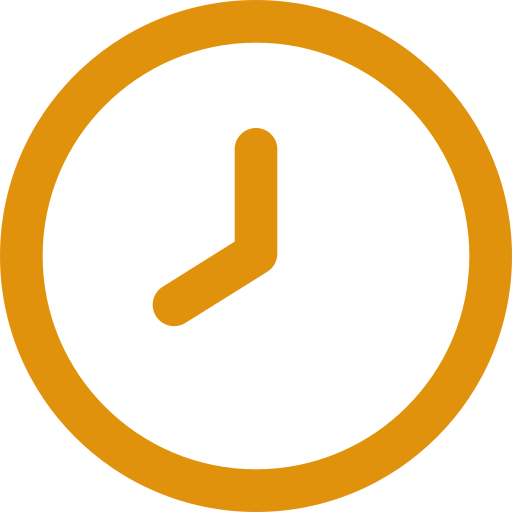
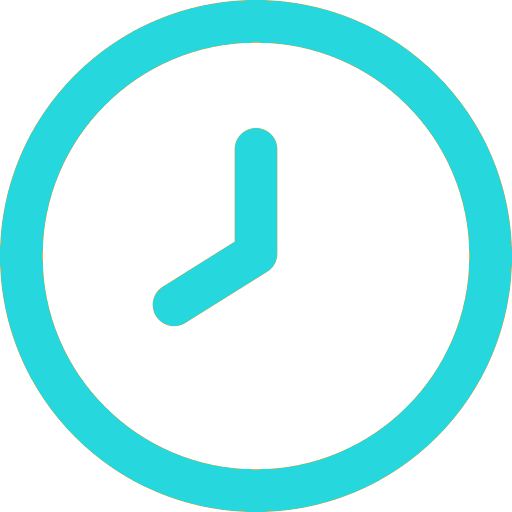
General UI Changes (Colour Formatting)

Changed region(s): [[0.0, 0.0, 1.0, 1.0], [0.2812, 0.25, 0.5625, 0.6562]]

diff --git a/lib/screens/signup_page.dart b/lib/screens/signup_page.dart
@@ -85,10 +85,11 @@ class SignUpScreenState extends State<SignupScreen> {
                 child: Container(),
               ),
               //svg image
-              SvgPicture.asset(
-                'assets/login_logo_emptybackg.svg',
+              Image.asset(
+                'assets/original_logo.png',
                 height: 140,
               ),
+
               const SizedBox(height: 10),
 
               //textfield for username
@@ -207,14 +208,14 @@ class SignUpScreenState extends State<SignupScreen> {
       Get.snackbar("Error", "Please enter a valid username",
           snackPosition: SnackPosition.TOP,
           backgroundColor: Colors.black.withOpacity(1),
-          colorText: Colors.orangeAccent);
+          colorText: orange);
       print("Please enter a valid username.");
       return false;
     } else if (controller.text_pass.text.trim() == "") {
       Get.snackbar("Error", "Password field is empty",
           snackPosition: SnackPosition.TOP,
           backgroundColor: Colors.black.withOpacity(1),
-          colorText: Colors.orange);
+          colorText: orange);
       print("Password is empty!");
       return false;
     } else if (controller.text_pass.text.trim() !=
@@ -223,14 +224,14 @@ class SignUpScreenState extends State<SignupScreen> {
           "Password and Verify Password fields does not have the same value",
           snackPosition: SnackPosition.TOP,
           backgroundColor: Colors.black.withOpacity(1),
-          colorText: Colors.orange);
+          colorText: orange);
       print("Password is not verified!");
       return false;
     } else if (controller.text_email.text.isEmpty) {
       Get.snackbar("Error", "Please enter a valid email",
           snackPosition: SnackPosition.TOP,
           backgroundColor: Colors.black.withOpacity(1),
-          colorText: Colors.orangeAccent);
+          colorText: orange);
       print("Please enter a valid email.");
       return false;
     } else if (controller.text_pass.text.trim().length < 8) {
@@ -238,7 +239,7 @@ class SignUpScreenState extends State<SignupScreen> {
           "Error", "Please enter at least 8 characters for the password",
           snackPosition: SnackPosition.TOP,
           backgroundColor: Colors.black.withOpacity(1),
-          colorText: Colors.orangeAccent);
+          colorText: orange);
       print("short password");
       return false;
     }

diff --git a/lib/widgets/custom_option.dart b/lib/widgets/custom_option.dart
@@ -47,13 +47,13 @@ class _CustomTernaryOptionState extends State<CustomTernaryOption> {
                       style: Theme.of(context).textTheme.bodyMedium!.copyWith(
                             fontWeight: FontWeight.w600,
                             color: selectedOption == 0
-                                ? Colors.orange
+                                ? orange
                                 : Colors.white,
                           ),
                     ),
                     Container(
                       height: selectedOption == 0 ? 3 : 1,
-                      color: selectedOption == 0 ? Colors.orange : Colors.white,
+                      color: selectedOption == 0 ? orange : Colors.white,
                     ),
                   ],
                 ),
@@ -74,13 +74,13 @@ class _CustomTernaryOptionState extends State<CustomTernaryOption> {
                       style: Theme.of(context).textTheme.bodyMedium!.copyWith(
                             fontWeight: FontWeight.w600,
                             color: selectedOption == 1
-                                ? Colors.orange
+                                ? orange
                                 : Colors.white,
                           ),
                     ),
                     Container(
                       height: selectedOption == 1 ? 3 : 1,
-                      color: selectedOption == 1 ? Colors.orange : Colors.white,
+                      color: selectedOption == 1 ? orange : Colors.white,
                     ),
                   ],
                 ),
@@ -101,13 +101,13 @@ class _CustomTernaryOptionState extends State<CustomTernaryOption> {
                       style: Theme.of(context).textTheme.bodyMedium!.copyWith(
                             fontWeight: FontWeight.w600,
                             color: selectedOption == 2
-                                ? Colors.orange
+                                ? orange
                                 : Colors.white,
                           ),
                     ),
                     Container(
                       height: selectedOption == 2 ? 3 : 1,
-                      color: selectedOption == 2 ? Colors.orange : Colors.white,
+                      color: selectedOption == 2 ? orange : Colors.white,
                     ),
                   ],
                 ),

diff --git a/lib/screens/editprofile_page.dart b/lib/screens/editprofile_page.dart
@@ -5,6 +5,7 @@ import 'package:sportshive/data/controllers/profile_controller.dart';
 import 'package:sportshive/data/repositories/user_repo.dart';
 import 'package:sportshive/responsive/mobile_screen_layout.dart';
 import 'package:sportshive/screens/welcome_screen.dart';
+import 'package:sportshive/utils/colors.dart';
 import 'package:sportshive/widgets/text_field_input.dart';
 import 'package:sportshive/screens/profile_pic.dart';
 import 'package:country_picker/country_picker.dart';
@@ -37,7 +38,7 @@ class _UserProfileScreenState extends State<UserProfileScreen> {
     return Scaffold(
       appBar: AppBar(
         title: Text('Tell us more about yourself'),
-        backgroundColor: Colors.orange,
+        backgroundColor: orange,
         iconTheme: IconThemeData(color: Colors.white),
         leading: IconButton(
           icon: Icon(Icons.arrow_back),
@@ -181,7 +182,7 @@ class _UserProfileScreenState extends State<UserProfileScreen> {
       floatingActionButton: FloatingActionButton(
         onPressed: _onDonePressed,
         child: Icon(Icons.navigate_next),
-        backgroundColor: Colors.orange,
+        backgroundColor: orange,
       ),
       floatingActionButtonLocation: FloatingActionButtonLocation.endFloat,
     );

diff --git a/lib/screens/profile_screen.dart b/lib/screens/profile_screen.dart
@@ -104,7 +104,7 @@ class ProfileScreenState extends State<ProfileScreen> {
                                     onTap: () {},  //option to change the image
                                     child: CircleAvatar(
                                       radius: 15,
-                                      backgroundColor: Colors.orangeAccent,
+                                      backgroundColor: orange,
                                       child: Icon(
                                         Icons.edit,
                                         size: 20,
@@ -187,7 +187,7 @@ class ProfileScreenState extends State<ProfileScreen> {
                                           }
                                         },
                                         style: ElevatedButton.styleFrom(
-                                          primary: Colors.orange,
+                                          primary: orange,
                                           onPrimary: Colors.white,
                                         ),
                                         child: Text("Edit Profile"),

diff --git a/lib/screens/login_page.dart b/lib/screens/login_page.dart
@@ -55,10 +55,11 @@ class LoginScreenState extends State<LoginScreen> {
                 child: Container(),
               ),
               //svg image
-              SvgPicture.asset(
-                'assets/login_logo_emptybackg.svg',
+              Image.asset(
+                'assets/original_logo.png',
                 height: 140,
               ),
+
               const SizedBox(height: 35),
               //textfield for email
               TextFieldInput(

diff --git a/lib/screens/preference_screen.dart b/lib/screens/preference_screen.dart
@@ -53,7 +53,7 @@ class _SportsPreferenceScreenState extends State<SportsPreferenceScreen> {
         floatingActionButton: FloatingActionButton(
           onPressed: _onDonePressed,
           child: Icon(Icons.check),
-          backgroundColor: Colors.orange,
+          backgroundColor: orange,
         ),
         floatingActionButtonLocation: FloatingActionButtonLocation.endFloat,
       ),

diff --git a/lib/screens/create_post_screen.dart b/lib/screens/create_post_screen.dart
@@ -122,7 +122,7 @@ class _AddPostScreenState extends State<AddPostScreen> {
           ),
         ),
         centerTitle: true,
-        backgroundColor: Colors.orange,
+        backgroundColor: orange,
         iconTheme: IconThemeData(
           color:
               mobileBackgroundColor, // Change this to the color you want for the back arrow
